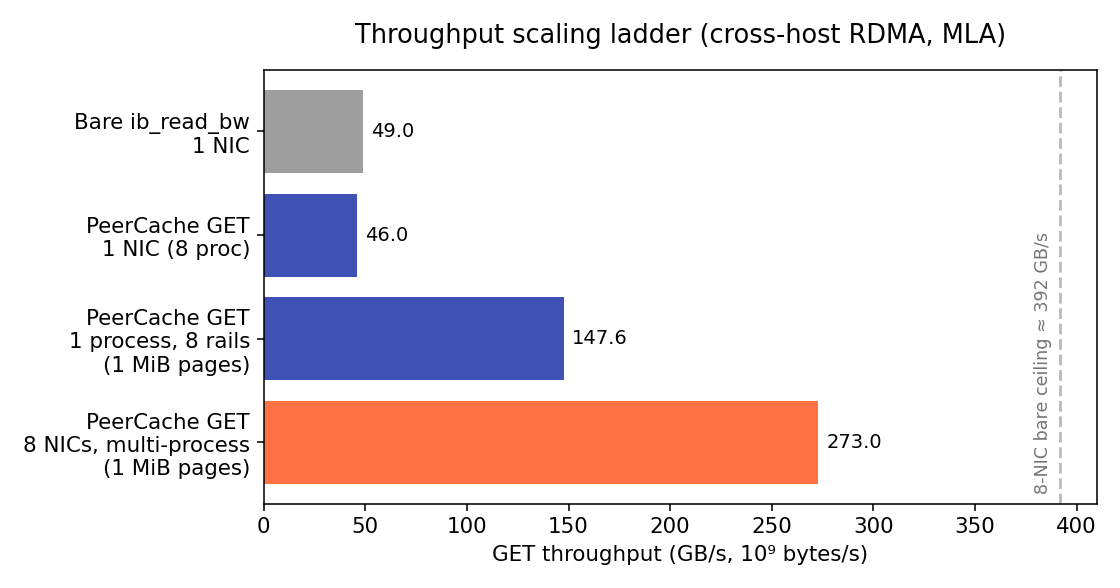
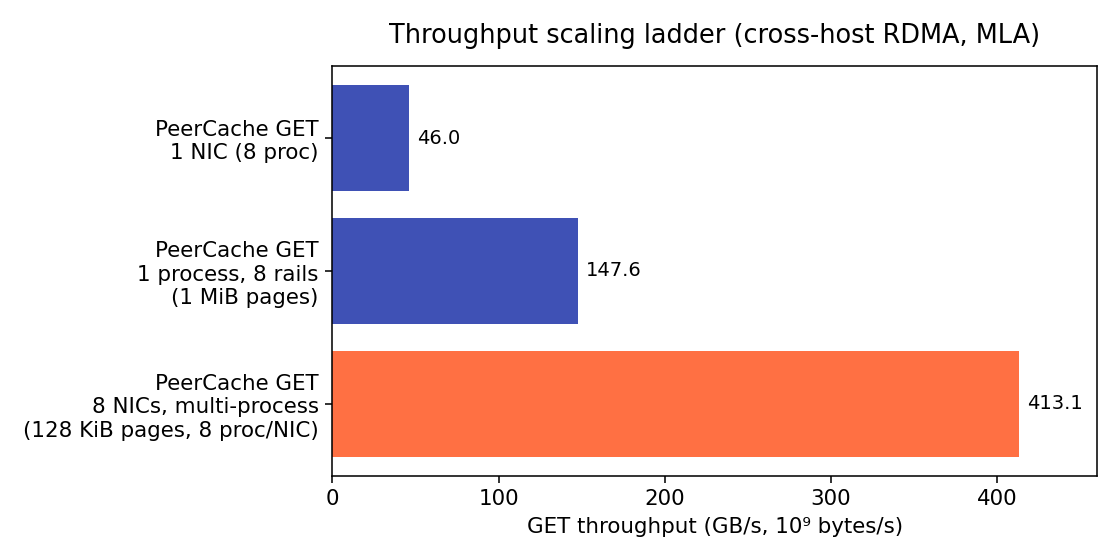
docs: refresh full-machine baseline to 413 GB/s (charts + all references)
Updated the 8-NIC multi-process aggregate from 273 -> 413.1 GB/s (~3.3 Tbps,
8 reader processes/NIC at 128 KiB pages) everywhere it is cited: performance
page (EN/中文) headline + section 3 + per-NIC table, docs overview (EN/中文),
README (EN/中文). Regenerated the scaling-ladder and per-NIC charts (new values,
removed the now-exceeded single-NIC ceiling line; per-NIC 25-89 GB/s, avg 51.6).
Added the measured GPUDirect result (49.5 GB/s, single-GPU PCIe-bound; scales
per-GPU in a TP deployment) to the GPUDirect section.

diff --git a/docs/assets/perf/make_charts.py b/docs/assets/perf/make_charts.py
@@ -21,27 +21,23 @@ plt.rcParams.update({"font.size": 11, "figure.autolayout": True})
 
 def scaling_ladder():
     labels = [
-        "Bare ib_read_bw\n1 NIC",
         "PeerCache GET\n1 NIC (8 proc)",
         "PeerCache GET\n1 process, 8 rails\n(1 MiB pages)",
-        "PeerCache GET\n8 NICs, multi-process\n(1 MiB pages)",
+        "PeerCache GET\n8 NICs, multi-process\n(128 KiB pages, 8 proc/NIC)",
     ]
-    vals = [49.0, 46.0, 147.6, 273.0]
-    colors = [GREY, PRIMARY, PRIMARY, ACCENT]
-    fig, ax = plt.subplots(figsize=(8, 4.2))
+    vals = [46.0, 147.6, 413.1]
+    colors = [PRIMARY, PRIMARY, ACCENT]
+    fig, ax = plt.subplots(figsize=(8, 4.0))
     bars = ax.barh(range(len(labels)), vals, color=colors)
     ax.set_yticks(range(len(labels)))
     ax.set_yticklabels(labels)
     ax.invert_yaxis()
     ax.set_xlabel("GET throughput (GB/s, 10⁹ bytes/s)")
-    ax.set_title("Throughput scaling ladder (cross-host RDMA, MLA)", pad=14)
-    ax.axvline(392.0, ls="--", color="#bdbdbd")
-    ax.text(388.0, len(labels) - 0.5, "8-NIC bare ceiling ≈ 392 GB/s",
-            color="#757575", ha="right", va="bottom", fontsize=9, rotation=90)
+    ax.set_title("Throughput scaling ladder (cross-host RDMA, MLA)", pad=12)
     for b, v in zip(bars, vals):
-        ax.text(b.get_width() + 4, b.get_y() + b.get_height() / 2,
+        ax.text(b.get_width() + 5, b.get_y() + b.get_height() / 2,
                 f"{v:.1f}", va="center", fontsize=10)
-    ax.set_xlim(0, 410)
+    ax.set_xlim(0, 460)
     fig.savefig(os.path.join(OUT, "scaling_ladder.png"), dpi=140)
     plt.close(fig)
 
@@ -69,16 +65,17 @@ def single_process_scaling():
 
 def per_card():
     cards = [f"bond_{i}" for i in range(1, 9)]
-    vals = [50.139, 35.187, 16.862, 17.202, 36.914, 38.946, 37.227, 40.561]
+    vals = [49.294, 54.537, 25.365, 25.145, 51.369, 89.426, 66.599, 51.398]
+    avg = sum(vals) / len(vals)
     fig, ax = plt.subplots(figsize=(8, 4.2))
     bars = ax.bar(cards, vals, color=PRIMARY)
-    ax.axhline(49.0, ls="--", color=GREY)
-    ax.text(7.4, 49.0 + 0.6, "single-NIC ceiling 49", color="#757575", ha="right", fontsize=9)
+    ax.axhline(avg, ls="--", color=GREY)
+    ax.text(-0.45, avg + 1.2, f"avg {avg:.1f}", color="#757575", ha="left", fontsize=9)
     for b, v in zip(bars, vals):
-        ax.text(b.get_x() + b.get_width() / 2, v + 0.6, f"{v:.1f}", ha="center", fontsize=9)
+        ax.text(b.get_x() + b.get_width() / 2, v + 1.2, f"{v:.1f}", ha="center", fontsize=9)
     ax.set_ylabel("GET throughput (GB/s)")
-    ax.set_title("Per-NIC throughput, 8-NIC multi-process run (Σ = 273.0 GB/s ≈ 2.18 Tbps)")
-    ax.set_ylim(0, 56)
+    ax.set_title("Per-NIC throughput, 8-NIC multi-process run (Σ = 413.1 GB/s ≈ 3.3 Tbps)")
+    ax.set_ylim(0, 100)
     fig.savefig(os.path.join(OUT, "per_card.png"), dpi=140)
     plt.close(fig)
 

diff --git a/docs/performance.md b/docs/performance.md
@@ -27,10 +27,12 @@ regimes and what bounds each:
 | Bare `ib_read_bw`, 1 NIC, 16 QP | **49.0 GB/s** (392 Gbps) | 100% | hardware ceiling of one NIC |
 | PeerCache, 1 NIC, 8 processes | **46.0 GB/s** (368 Gbps) | 94% | storage-layer overhead ≈ 6% |
 | PeerCache, **1 process**, 8 rails, 1 MiB pages | **147.6 GB/s** (1.18 Tbps) | — | GIL-bounded; ≈ 3 NICs' worth |
-| PeerCache, **8 NICs**, multi-process, 1 MiB pages | **273.0 GB/s** (2.18 Tbps) | — | ≈ 70% of the 8-NIC bare ceiling |
+| PeerCache, **8 NICs**, multi-process, 128 KiB pages | **413.1 GB/s** (3.3 Tbps) | — | per-NIC 25–89 GB/s; mem/PCIe/NUMA-bound |
 
 The takeaway: PeerCache reaches **~94% of bare `ib_read_bw` on a single NIC**,
-and a single box scales to **0.27 TB/s** aggregate across 8 NICs.
+and a single box scales to **0.41 TB/s** aggregate across 8 NICs. (Under full
+multi-process load a single NIC reached **89 GB/s** — the 16-QP `ib_read_bw`
+figure above is a conservative single-NIC reference, not a hard cap.)
 
 ## Test environment
 
@@ -112,23 +114,24 @@ saturate all 8** — for that, use multiple processes.
 
 The production shape (and the way to fill every NIC) is **one process group per
 NIC** — exactly how an SGLang TP=8 deployment runs (8 ranks, each pinned to its
-local NIC). Here: 8 NICs × 4 reader processes each, 1 MiB pages.
+local NIC). Here: 8 NICs × 8 reader processes each, 128 KiB pages.
 
 <figure markdown>
   ![Per-NIC throughput](assets/perf/per_card.png)
-  <figcaption>Per-NIC GET throughput; the 8 sum to 273.0 GB/s (≈ 2.18 Tbps).</figcaption>
+  <figcaption>Per-NIC GET throughput; the 8 sum to 413.1 GB/s (≈ 3.3 Tbps).</figcaption>
 </figure>
 
 | metric | value |
 |---|---|
-| **Aggregate GET** | **273.0 GB/s (2.18 Tbps)** |
-| Per-NIC range | 16.9 – 50.1 GB/s |
-| Fraction of 8-NIC bare ceiling (≈ 392 GB/s) | ≈ 70% |
+| **Aggregate GET** | **413.1 GB/s (3.3 Tbps)** |
+| Per-NIC range | 25.1 – 89.4 GB/s (avg ≈ 51.6) |
+| Config | 8 NICs × 8 reader processes, 128 KiB pages |
 
-The aggregate scales far past a single process (147 → 273 GB/s) but is **no
-longer NIC-bound** — it is limited by host memory bandwidth / PCIe and by an
-**imbalance** (two NICs at ~17 GB/s while others reach 35–50). On this box NICs
-1–4 sit on NUMA node 0 and 5–8 on node 1 (remote-node distance 32 vs 10 local),
+The aggregate scales far past a single process (147 → 413 GB/s) and a single NIC
+reached **89 GB/s** here, so it is **not NIC-bound** — the limit is host memory
+bandwidth / PCIe and an **imbalance** (two NICs at ~25 GB/s while others reach
+49–89). On this box NICs 1–4 sit on NUMA node 0 and 5–8 on node 1 (remote-node
+distance 32 vs 10 local),
 so a reader that isn't pinned can land on the wrong node and pay the cross-NUMA
 penalty. Bind each process group to its NIC's NUMA node with
 `numactl --cpunodebind=<n> --membind=<n>` (the reproduce scripts do this when
@@ -198,6 +201,13 @@ peercache-bench drive --discovery-addr PRODUCER_IP:31998 --device-name mlx5_bond
 
 `--gpu` allocates the read destination in GPU memory; a registration failure
 raises an error naming the missing prerequisite.
+
+Measured (1 process, 8 rails, 1 MiB pages, recv in VRAM): **49.5 GB/s at 100%
+hit** vs. 140 GB/s with a host recv buffer. This is **single-GPU PCIe-bound** —
+all 8 rails write into one GPU, so they share that GPU's PCIe link (≈ 50 GB/s on
+Gen5 x16). In a real SGLang TP=N deployment each rank reads into **its own** GPU,
+so GPUDirect scales with the number of GPUs (≈ N × per-GPU PCIe bandwidth)
+instead of being capped by a single link.
 
 ## Caveats
 

diff --git a/README.md b/README.md
@@ -169,7 +169,7 @@ On 2× AMD EPYC 9K84 + 8× ConnectX-7 (RoCEv2, MTU 4096, MLNX_OFED 5.8):
 |---|---|
 | single NIC, PeerCache | **46.0 GB/s** (368 Gbps) — **~94%** of bare `ib_read_bw` (49.0 GB/s) |
 | single process, 8 rails (1 MiB pages) | **147.6 GB/s** (1.18 Tbps) |
-| full machine, 8 NICs, multi-process | **273.0 GB/s** (≈ 2.18 Tbps) |
+| full machine, 8 NICs, multi-process | **413.1 GB/s** (≈ 3.3 Tbps) |
 
 ![PeerCache GET throughput: single NIC → whole machine](docs/assets/perf/scaling_ladder.png)
 

diff --git a/CHANGELOG.md b/CHANGELOG.md
@@ -6,6 +6,12 @@ All notable changes to PeerCache are documented here. The format is based on
 
 ## [Unreleased]
 
+### Changed
+- Refreshed the **full-machine performance baseline** (docs + README + overview
+  + charts): 8-NIC multi-process aggregate **273 → 413 GB/s (≈ 3.3 Tbps)** with
+  8 reader processes/NIC at 128 KiB pages; added the measured GPUDirect result
+  (49.5 GB/s, single-GPU PCIe-bound) and noted the per-NIC range (25–89 GB/s).
+
 ## [0.6.0] - 2026-06-01
 
 ### Added

diff --git a/docs/index.md b/docs/index.md
@@ -57,7 +57,7 @@ MTU 4096):
 |---|---|
 | single NIC, PeerCache | **46.0 GB/s** — **~94%** of bare `ib_read_bw` (49.0 GB/s) |
 | single process, 8 rails (1 MiB pages) | **147.6 GB/s** (1.18 Tbps) |
-| full machine, 8 NICs, multi-process | **273.0 GB/s** (≈ 2.18 Tbps) |
+| full machine, 8 NICs, multi-process | **413.1 GB/s** (≈ 3.3 Tbps) |
 
 ![PeerCache GET throughput: single NIC → whole machine](assets/perf/scaling_ladder.png)
 

diff --git a/docs/index.zh.md b/docs/index.zh.md
@@ -55,7 +55,7 @@ flowchart LR
 |---|---|
 | 单卡，PeerCache | **46.0 GB/s** —— 裸 `ib_read_bw`（49.0 GB/s）的 **~94%** |
 | 单进程，8 rail（1 MiB 页） | **147.6 GB/s**（1.18 Tbps） |
-| 整机，8 卡，多进程 | **273.0 GB/s**（≈ 2.18 Tbps） |
+| 整机，8 卡，多进程 | **413.1 GB/s**（≈ 3.3 Tbps） |
 
 ![PeerCache GET 吞吐：单卡 → 整机](assets/perf/scaling_ladder.png)
 
